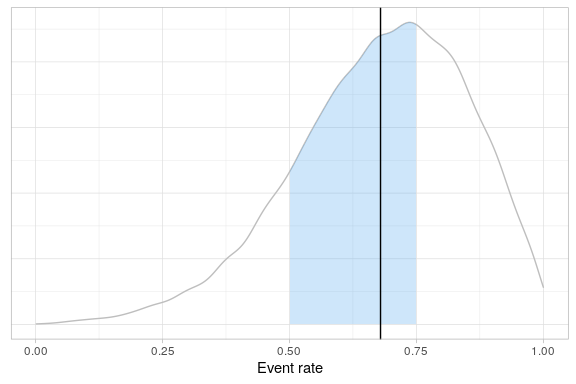
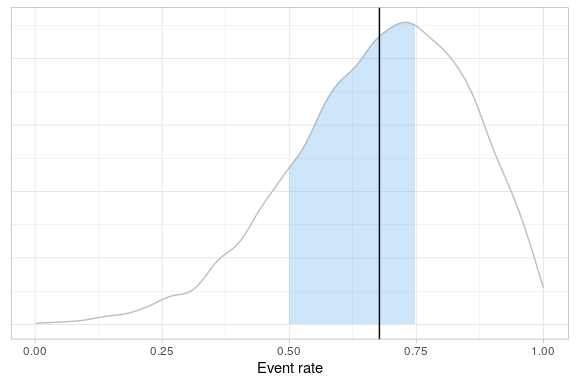
Typo in README

diff --git a/README.md b/README.md
@@ -219,16 +219,16 @@ fitted
 #> # A tibble: 20,000 × 4
 #>        p     a     b     q
 #>    <dbl> <dbl> <dbl> <int>
-#>  1 0.896 1.40  0.776    91
-#>  2 0.811 1.08  0.706    76
-#>  3 0.718 0.754 0.621    55
-#>  4 0.867 1.43  0.964    87
-#>  5 0.817 3.88  1.51     77
-#>  6 0.693 5.96  1.70     50
-#>  7 0.965 5.14  1.39     99
-#>  8 0.783 5.45  2.22     70
-#>  9 0.699 6.45  2.10     51
-#> 10 0.322 1.98  1.74      4
+#>  1 0.660  6.30 2.15     43
+#>  2 0.824  5.25 1.94     79
+#>  3 0.552  5.50 1.43     23
+#>  4 0.669  3.42 1.78     45
+#>  5 0.969  4.54 1.40     99
+#>  6 0.837  3.98 1.50     81
+#>  7 0.255  3.82 1.34      2
+#>  8 0.649  2.61 1.43     41
+#>  9 0.272  1.71 1.32      2
+#> 10 0.947  1.54 0.916    97
 #> # … with 19,990 more rows
 #> 
 #> $results
@@ -236,16 +236,16 @@ fitted
 #> JAGS model summary statistics from 20000 samples (chains = 2; adapt+burnin = 5000):
 #>                                                                           
 #>       Lower95  Median Upper95    Mean      SD Mode     MCerr MC%ofSD SSeff
-#> p[10] 0.36358 0.69548 0.99035 0.67934 0.17054   -- 0.0013721     0.8 15448
-#> a      2.2516  5.9802  9.9999  5.9636  2.2845   --  0.055816     2.4  1675
-#> b     0.65341  2.6691  5.3062  2.8221  1.2775   --  0.032877     2.6  1510
-#>                        
-#>           AC.10    psrf
-#> p[10] 0.0049052  1.0001
-#> a       0.21372  1.0003
-#> b       0.23235 0.99999
+#> p[10] 0.35342 0.69454 0.98449 0.67749 0.17251   -- 0.0013553     0.8 16202
+#> a      2.2294  5.9377  9.9993  5.9374  2.2759   --  0.056203     2.5  1640
+#> b      0.6331  2.6413  5.2276   2.803  1.2672   --  0.032515     2.6  1519
+#>                         
+#>             AC.10   psrf
+#> p[10] -0.00058748 1.0002
+#> a         0.22207 1.0011
+#> b         0.23037 1.0006
 #> 
-#> Total time taken: 3.8 seconds
+#> Total time taken: 3.2 seconds
 #> 
 #> 
 #> $status
@@ -294,7 +294,7 @@ berrySummary %>%
 #> [1] "OK"
 #> 
 #> $qtl
-#> [1] 0.6793431
+#> [1] 0.6774859
 #> 
 #> $data
 #> # A tibble: 9 × 5
@@ -354,7 +354,7 @@ berrySummary %>%
 #> [1] "OK"
 #> 
 #> $qtl
-#> [1] 0.6954819
+#> [1] 0.6945393
 #> 
 #> $data
 #> # A tibble: 9 × 5
@@ -388,7 +388,7 @@ berrySummary %>%
 #> 
 #> $qtl
 #>       10% 
-#> 0.4499657 
+#> 0.4440595 
 #> 
 #> $data
 #> # A tibble: 9 × 5
@@ -416,21 +416,21 @@ either below 40% or above 85%.
 
 ``` r
 qtlProbInRange <- berrySummary %>%
-                    evaluateProbabilityInRangeQTL(
-                      posterior = fitted$tab,
-                      metric = p,
-                      observedMetric = ObservedResponse,
-                      range=c(0.5, 0.75),
-                      probs=c("warn"= 0.8, "action"=0.6),
-                      lower=0.4,
-                      upper=0.85
-                    )
+  evaluateProbabilityInRangeQTL(
+    posterior = fitted$tab,
+    metric = p,
+    observedMetric = ObservedResponse,
+    range = c(0.5, 0.75),
+    probs = c("warn" = 0.8, "action" = 0.6),
+    lower = 0.4,
+    upper = 0.85
+  )
 qtlProbInRange
 #> $status
 #> [1] "action"
 #> 
 #> $qtl
-#> [1] 0.47425
+#> [1] 0.46845
 #> 
 #> $data
 #> # A tibble: 9 × 5
@@ -488,7 +488,7 @@ berrySummary %>%
     }
   )
 #> $qtl
-#> [1] 0.6793431
+#> [1] 0.6774859
 #> 
 #> $status
 #> [1] "Breach"
@@ -526,30 +526,30 @@ measured. Again, we use the Berry data as an example.
 
 ``` r
 rvSiteMetrics <- berrySummary %>%
-                   evaluateSiteMetricQTL(
-                   posterior=fitted$tab,
-                   metric=p,
-                   observedMetric=ObservedResponse,
-                   lower=c("action"=0.05, "warn"=0.2),
-                   upper=c("action"=0.95, "warn"=0.8)
-                 )
+  evaluateSiteMetricQTL(
+    posterior = fitted$tab,
+    metric = p,
+    observedMetric = ObservedResponse,
+    lower = c("action" = 0.05, "warn" = 0.2),
+    upper = c("action" = 0.95, "warn" = 0.8)
+  )
 ```
 
 The `quantiles` element of the return value contains the mappings from
 quantile of the posterior to observed values of the metric. For example,
 the first row of `rvSiteMetrics$quantiles` shows that the lower action
 limit is the 5th centile of the posterior, which corresponds to an event
-probability of 0.372.
+probability of 0.367.
 
 ``` r
 rvSiteMetrics$quantiles
 #> # A tibble: 4 × 4
 #>   Threshold Status Quantile     p
 #>   <chr>     <chr>     <dbl> <dbl>
-#> 1 Lower     action     0.05 0.372
-#> 2 Lower     warn       0.2  0.538
+#> 1 Lower     action     0.05 0.367
+#> 2 Lower     warn       0.2  0.533
 #> 3 Upper     warn       0.8  0.832
-#> 4 Upper     action     0.95 0.929
+#> 4 Upper     action     0.95 0.931
 ```
 
 As before, the `data` element of the list contains a copy of the site
@@ -608,18 +608,20 @@ two or more sites lie outside the credible interval:
 
 ``` r
 (berrySummary %>%
-evaluateSiteMetricQTL(
-  posterior=fitted$tab,
-  metric=p,
-  observedMetric=ObservedResponse,
-  lower=c("action"=0.5, "warn"=0.6),
-  upper=c("action"=0.9, "warn"=0.8),
-  statusFunc=function(d) ifelse(
-                           d %>%
-                             dplyr::filter(Status == "action") %>%
-                             dplyr::pull(N) >= 2, "action", "OK"
-                         )
-))$status
+  evaluateSiteMetricQTL(
+    posterior = fitted$tab,
+    metric = p,
+    observedMetric = ObservedResponse,
+    lower = c("action" = 0.5, "warn" = 0.6),
+    upper = c("action" = 0.9, "warn" = 0.8),
+    statusFunc = function(d) {
+      ifelse(
+        d %>%
+          dplyr::filter(Status == "action") %>%
+          dplyr::pull(N) >= 2, "action", "OK"
+      )
+    }
+  ))$status
 #> [1] "action"
 ```
 
@@ -648,15 +650,15 @@ fitted$tab %>%
     observedMetric = fitted$tab %>% summarise(Mean = mean(p)) %>% pull(Mean),
     actionLimits = list(
       list(
-        "lower" = rvSiteMetrics$quantiles %>% filter(Threshold == "Upper", Status == "action") %>% pull(p), 
-        "upper" = NA, 
-        "alpha" = 0.3, 
+        "lower" = rvSiteMetrics$quantiles %>% filter(Threshold == "Upper", Status == "action") %>% pull(p),
+        "upper" = NA,
+        "alpha" = 0.3,
         "colour" = "goldenrod1"
       ),
       list(
-        "lower" = NA, 
-        "upper" = rvSiteMetrics$quantiles %>% filter(Threshold == "Lower", Status == "action") %>% pull(p), 
-        "alpha" = 0.3, 
+        "lower" = NA,
+        "upper" = rvSiteMetrics$quantiles %>% filter(Threshold == "Lower", Status == "action") %>% pull(p),
+        "alpha" = 0.3,
         "colour" = "goldenrod1"
       )
     ),
@@ -828,7 +830,7 @@ observedData <- tibble(
   ObservedRate = 100 * c(2, 9, 15, 16) / NObserved
 )
 
-table <- createObservedOverExpectedTable(
+createObservedOverExpectedTable(
   nHistorical = 10000,
   historicalRate = 0.014,
   expectedRate = 0.014,
@@ -837,6 +839,8 @@ table <- createObservedOverExpectedTable(
   observedRate = ObservedRate
 ) %>% createObservedOverExpectedPlot(observedRate = ObservedRate)
 ```
+
+<img src="man/figures/README-unnamed-chunk-19-1.png" width="80%" />
 
 > TODO Need to check interpretation of parameters
 
